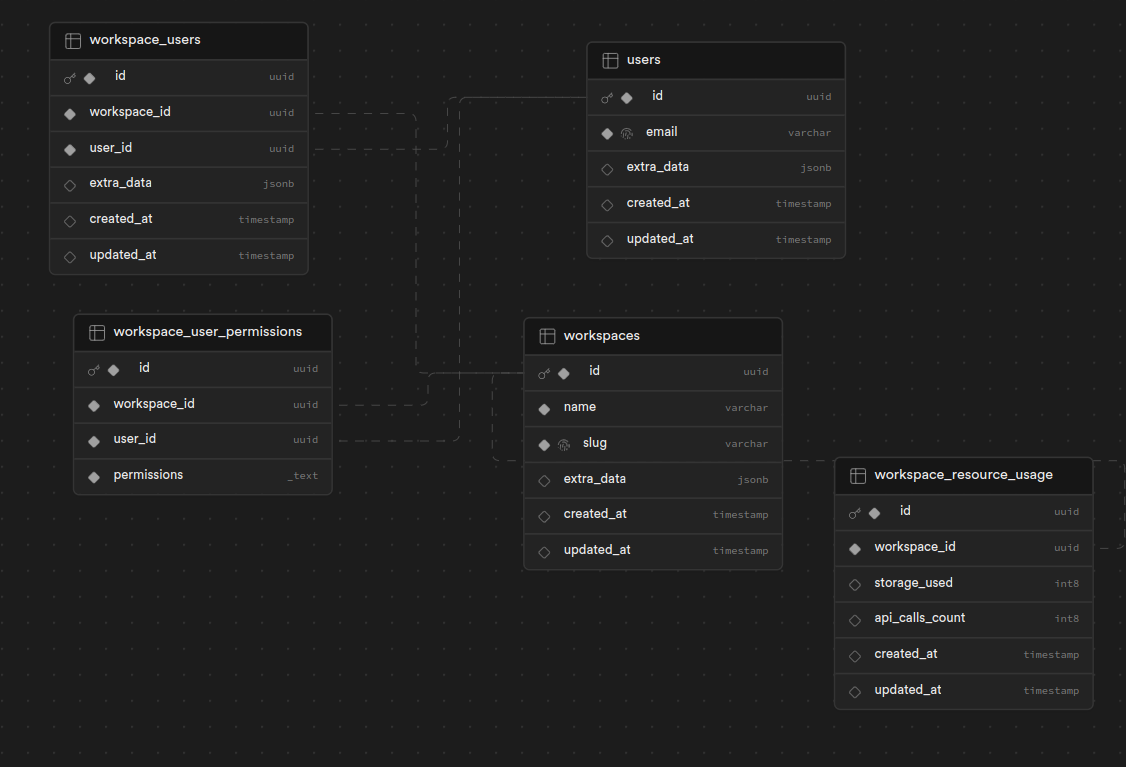
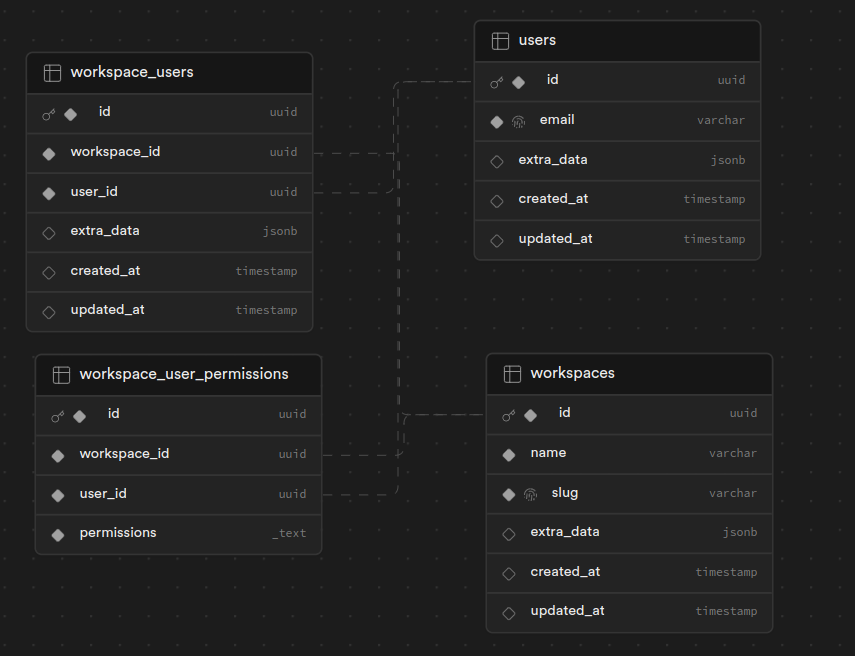
removed worksapce_resource_usage table and updated db schema visualized image

diff --git a/readme.md b/readme.md
@@ -7,8 +7,8 @@ This project implements a scalable multi-tenant architecture using Supabase and 
 - **Multiple Tenants (Workspaces)**: Support for multiple tenants with data isolation.
 - **Row Level Security (RLS)**: Comprehensive setup with scalable policies for access control.
 - **Tenant Data Isolation**: Ensures data separation between different tenants.
-- **Tenant Resource Usage Tracking**: Table to monitor resource usage per tenant.
 - **Supabase Auth Integration**: Hook for adding user tenant permissions.
+- **Tenant Resource Usage Tracking**: Table to monitor resource usage per tenant (WIP).
 
 ## Database Schema
 
@@ -67,6 +67,7 @@ When creating new tables, follow this [guide](docs/new-table.md) for implementin
 
 - Support for users belonging to multiple tenants
 - Implementation of unit tests
+- Policies for `workspace_resource_usage` table
 - Functionality to seed sample data
 
 ## Contributing